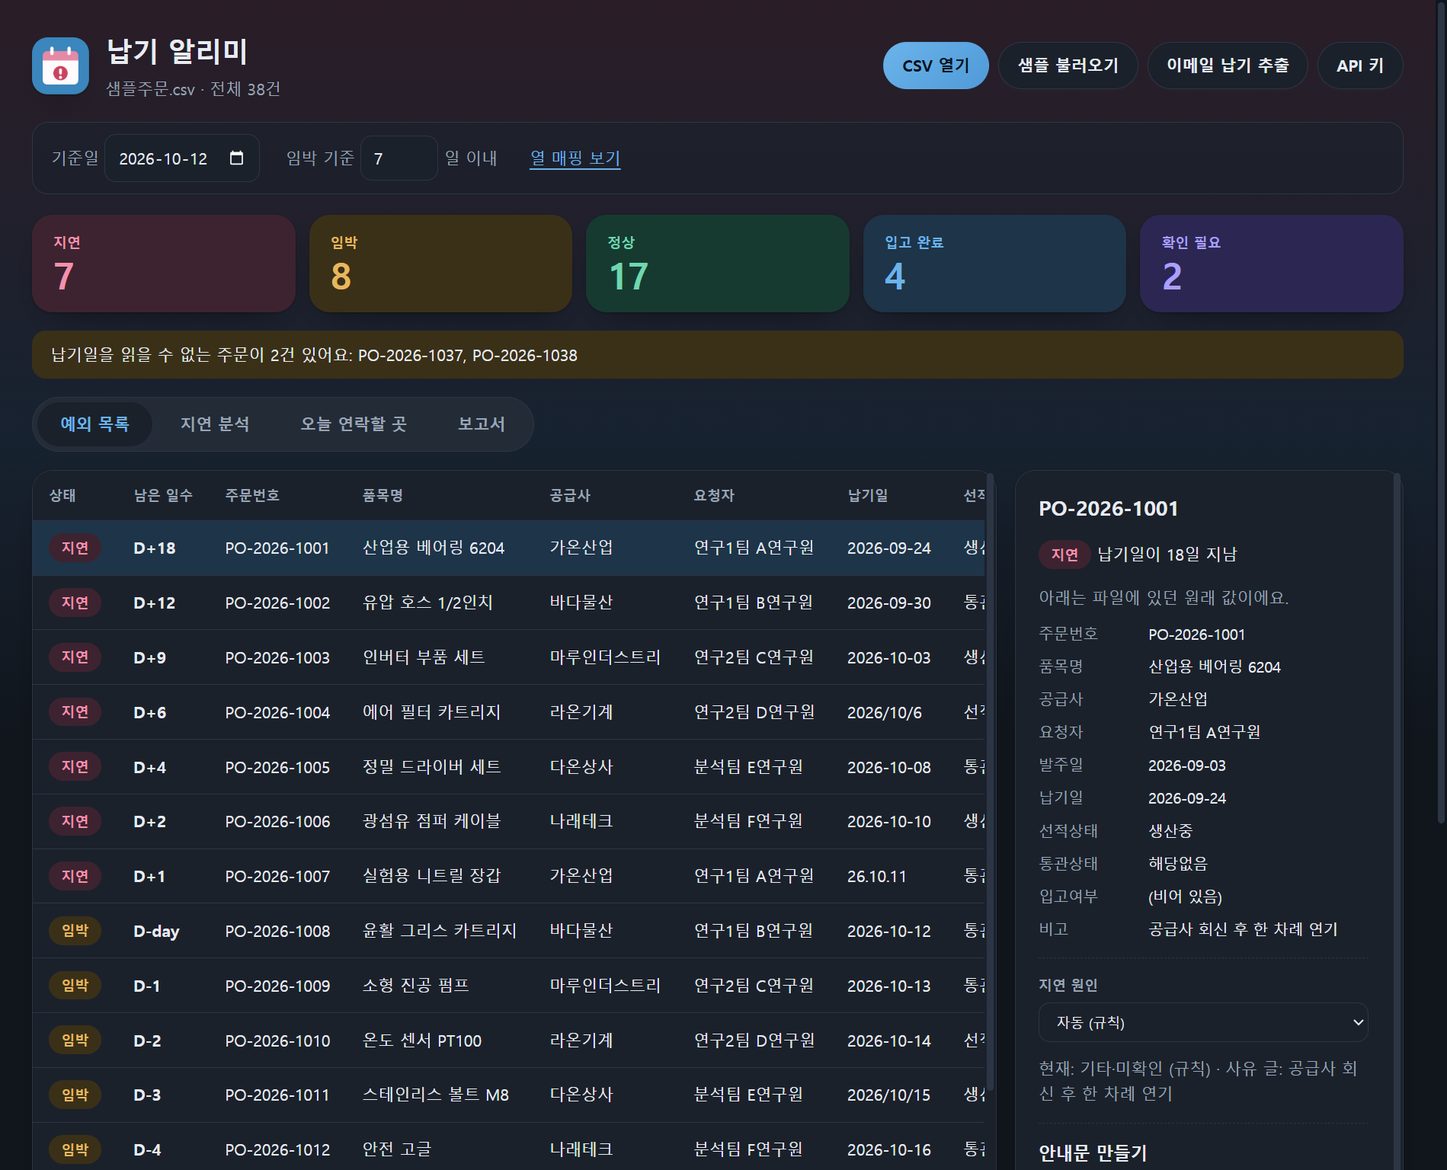
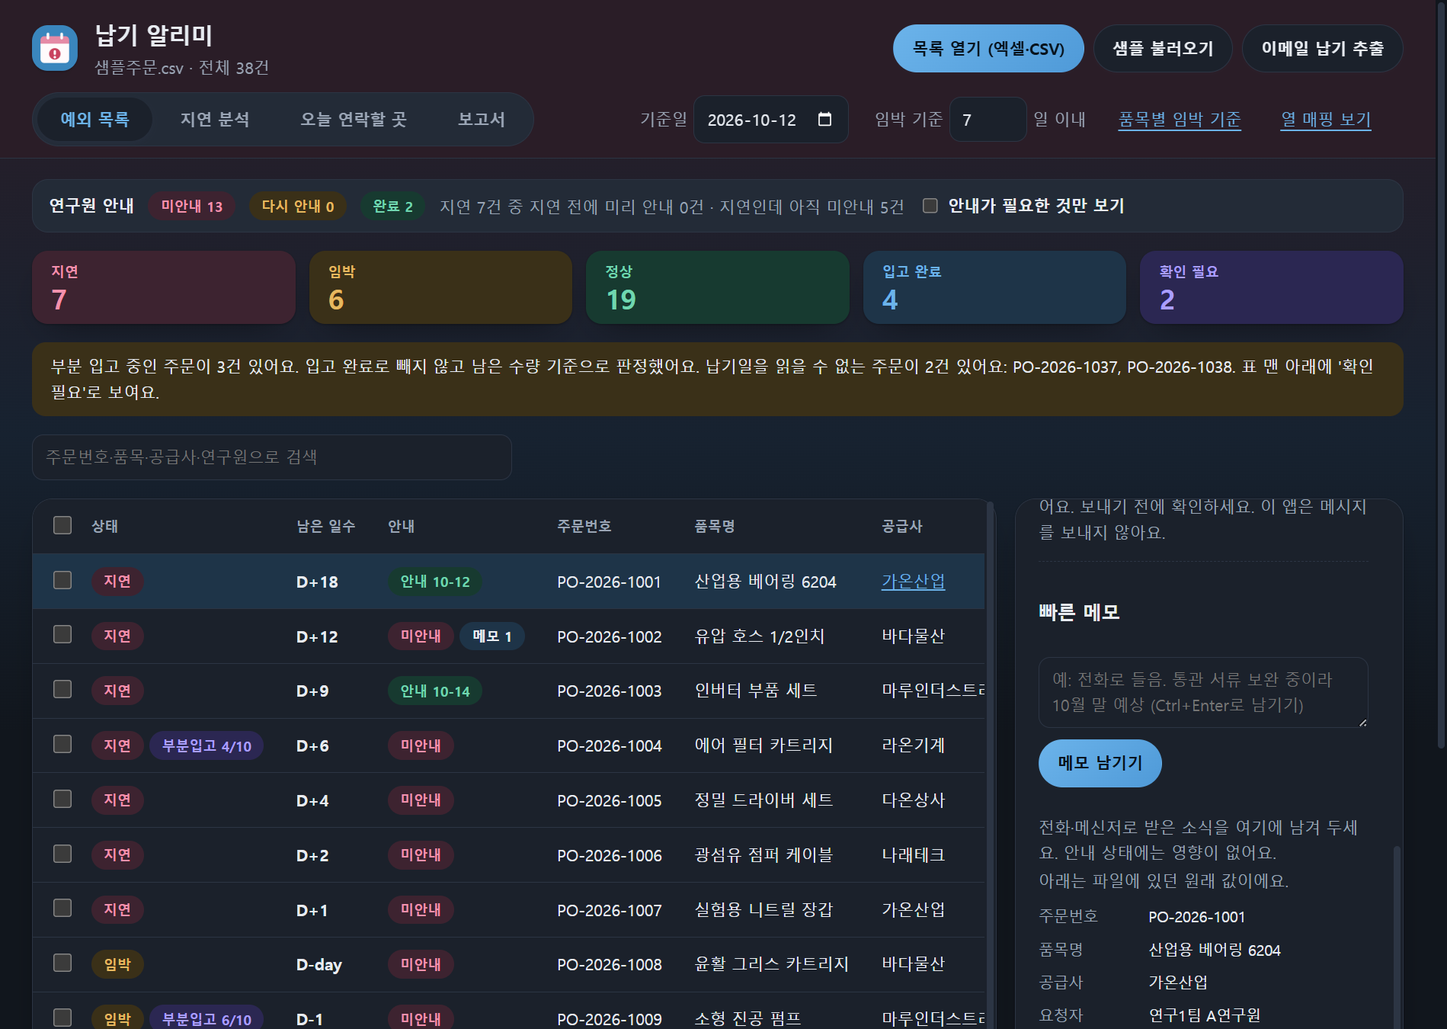
Phase 8: v0.5.0 패키징(설치 파일 106.4MB), 패키지 점검 도구, 패키지된 앱 E2E, README·캡처·CHANGELOG·문서 갱신
설치·업그레이드·삭제 시험은 이 PC에 0.4.0이 이미 설치돼 있어 하지 않았다(M-10 절차로 남김).

diff --git a/tools/capture.js b/tools/capture.js
@@ -1,11 +1,17 @@
 // 실제 앱(main.js)을 임시 저장 폴더로 띄워 화면을 캡처한다. 사용자의 state.json은 건드리지 않는다.
 // 사용 (Electron으로 실행해야 한다):
 //   APP_ROOT=<앱 폴더 절대 경로> OUT_DIR=<저장할 폴더 절대 경로> node_modules/electron/dist/electron.exe tools/capture.js
-// README용 캡처 8~14번 화면을 만든다. 샘플 기준일(2026-10-12)과 샘플 주문의 판정 결과에 맞춰 쓴 흐름이다.
-const { app, BrowserWindow } = require("electron");
+// README용 캡처(00~03, 06~17번)를 만든다. 04·05번(메일 폴더, 공급사 엑셀)은 따로 찍은 것을 그대로 쓴다.
+// 샘플 기준일(2026-10-12)과 샘플 주문의 판정 결과에 맞춰 쓴 흐름이다.
+const { app, BrowserWindow, nativeTheme } = require("electron");
 const path = require("path"), fs = require("fs"), os = require("os");
 const ROOT = process.env.APP_ROOT, OUT = process.env.OUT_DIR;
-app.setPath("userData", fs.mkdtempSync(path.join(os.tmpdir(), "nabgi-cap-")));
+const userData = fs.mkdtempSync(path.join(os.tmpdir(), "nabgi-cap-"));
+app.setPath("userData", userData);
+// 17번(엑셀 열기)에 쓸 5,001줄 가상 엑셀. 열기 대화상자는 자동화할 수 없어서 E2E 우회 경로를 쓴다 (임시 저장 폴더라서 안전하다).
+const bigXlsx = path.join(userData, "주문목록-5001줄.xlsx");
+fs.writeFileSync(bigXlsx, require(path.join(ROOT, "make-sample-orders-xlsx.js")).buildOrderFixtures()["09-5001줄.xlsx"]);
+process.env.NABGI_E2E = "1"; process.env.NABGI_USER_DATA = userData; process.env.NABGI_OPEN_FILE = bigXlsx;
 require(path.join(ROOT, "main.js"));
 
 const sleep = ms => new Promise(r => setTimeout(r, ms));
@@ -39,8 +45,12 @@ app.whenReady().then(async () => {
   await sleep(1500);
   win = BrowserWindow.getAllWindows()[0];
   win.setContentSize(1266, 900);
+  nativeTheme.themeSource = "light";
+  await shotFixed("00-첫화면", 900, 0, null);                       // 불러온 파일이 없는 첫 화면 (API 키 단추 없음)
   await js("document.getElementById('sampleBtn').click()");
   await sleep(800);
+  await pickRow("PO-2026-1001"); await sleep(300);
+  await shotFixed("01-예외목록", 900, 0, null);                      // 안내 현황 막대, 요약 카드, 표, 주문 상세
 
   // 1) 연구원 안내 기록: 1001은 10-12에, 1003은 10-14에 기록하고 10-19로 넘기면 안내 완료·다시 안내·미안내가 모두 보인다
   await pickRow("PO-2026-1001"); await sleep(200);
@@ -84,6 +94,33 @@ app.whenReady().then(async () => {
   await js(`(()=>{const a=[...document.querySelectorAll('a,button')].find(x=>x.textContent.includes('품목별 임박 기준')); a.click()})()`); await sleep(400);
   await shotFixed("13-품목별임박기준", 900, 0, null);
   await js(`(()=>{const a=[...document.querySelectorAll('a,button')].find(x=>x.textContent.includes('품목별 임박 기준')); a.click()})()`); await sleep(300);
+
+  // 8) 빠른 메모 (FR-12)
+  await pickRow("PO-2026-1002"); await sleep(300);
+  await js(`(()=>{const ta=document.querySelector('.notebox textarea'); ta.value='전화로 들음: 통관 서류 보완 중이라 10월 말 예상'; })()`);
+  await clickBtn(".notebox button", "메모 남기기"); await sleep(500);
+  await shotFixed("15-빠른메모", 1000, 0, ".notebox");
+
+  // 9) 탭 화면과 다크 모드 (색이 바뀐 뒤의 모습)
+  await resetView(); await js("window.scrollTo(0,0)");
+  await js("document.getElementById('tabAna').click()"); await sleep(500); await shotFixed("02-지연분석", 900, 0, null);
+  await js("document.getElementById('tabContact').click()"); await sleep(500); await shotFixed("03-오늘연락할곳", 900, 0, null);
+  await js("document.getElementById('tabReport').click()"); await sleep(500); await shotFixed("06-보고서", 900, 0, null);
+  await js("document.getElementById('tabList').click()"); await sleep(400);
+  nativeTheme.themeSource = "dark"; await sleep(600);
+  await pickRow("PO-2026-1001"); await sleep(300);
+  await shotFixed("07-다크모드", 900, 0, null);
+  nativeTheme.themeSource = "light"; await sleep(600);
+
+  // 10) 다시 안내 기준 설정 (FR-18): 품목별 임박 기준 패널 아래쪽
+  await js(`(()=>{const a=[...document.querySelectorAll('a,button')].find(x=>x.textContent.includes('품목별 임박 기준')); a.click()})()`); await sleep(400);
+  await shotFixed("16-다시안내기준", 900, 0, null);
+  await js(`(()=>{const a=[...document.querySelectorAll('a,button')].find(x=>x.textContent.includes('품목별 임박 기준')); a.click()})()`); await sleep(300);
+
+  // 11) 엑셀 목록 열기 (FR-07): 5,001줄이라 "일부만 읽었다"는 안내가 나온다
+  await js("document.getElementById('openBtn').click()"); await sleep(2500);
+  await shotFixed("17-엑셀열기", 900, 0, null);
+  await js("document.getElementById('sampleBtn').click()"); await sleep(800); await setDate("2026-10-12"); await sleep(300);
 
   // 7) 부분 납품
   const partNo = await js(`(()=>{const r=[...document.querySelectorAll('#tbody tr')].find(r=>r.innerText.includes('부분입고')); r.click(); return r.innerText})()`); await sleep(300);

diff --git a/tools/check-package.js b/tools/check-package.js
@@ -1,0 +1,29 @@
+// 설치 파일에 들어간 내용을 점검한다 (Phase 8). 사용: node tools/check-package.js   (먼저 npm run dist)
+// dist/win-unpacked/resources/app.asar 안의 파일 목록을 보고: 필요한 파일이 다 있고, 개발 도구·시험·문서는 없는지 확인한다.
+const fs = require("fs"), path = require("path");
+const asar = require("@electron/asar");
+
+const ROOT = path.join(__dirname, "..");
+const file = path.join(ROOT, "dist", "win-unpacked", "resources", "app.asar");
+if (!fs.existsSync(file)) { console.error("app.asar가 없어요. 먼저 npm run dist를 실행하세요."); process.exit(2); }
+const list = asar.listPackage(file).map(x => x.replace(/\\/g, "/"));
+
+// 화면과 메인이 쓰는 파일은 모두 있어야 한다: index.html이 부르는 스크립트 + main.js가 require하는 모듈 + 샘플
+const must = new Set(["/main.js", "/preload.js", "/package.json", "/renderer/index.html", "/renderer/renderer.js", "/renderer/style.css", "/build/icon.png", "/샘플주문.csv", "/샘플주문.xlsx"]);
+const html = fs.readFileSync(path.join(ROOT, "renderer", "index.html"), "utf8");
+[...html.matchAll(/<script src="\.\.\/(src\/[^"]+)"/g)].forEach(m => must.add("/" + m[1]));
+const requires = f => [...fs.readFileSync(path.join(ROOT, f), "utf8").matchAll(/require\("(\.[^"]+)"\)/g)].map(m => path.posix.join(path.posix.dirname("/" + f.replace(/\\/g, "/")), m[1]).replace(/\.js$/, "") + ".js");
+const seen = new Set();
+const walk = f => { requires(f).forEach(r => { const rel = r.slice(1); if (seen.has(r) || !fs.existsSync(path.join(ROOT, rel))) { if (!fs.existsSync(path.join(ROOT, rel))) { const idx = r.replace(/\.js$/, "") + "/index.js"; if (fs.existsSync(path.join(ROOT, idx.slice(1)))) { must.add(idx); walk(idx.slice(1)); } } return; } seen.add(r); must.add(r); walk(rel); }); };
+walk("main.js");
+["샘플메일", "샘플공급사"].forEach(d => { if (!list.some(x => x.startsWith("/" + d + "/"))) must.add("/" + d + "/(폴더)"); });
+
+const missing = [...must].filter(m => !list.includes(m) && !m.endsWith("(폴더)")).concat([...must].filter(m => m.endsWith("(폴더)")));
+const unwanted = list.filter(x => /^\/(test|tools|e2e|docs|dist|\.e2e-userdata|\.backup)(\/|$)/.test(x) || /^\/(CHANGELOG|README|기획문서|문제정의서|2차-설계)\.md$/.test(x) || /^\/make-.*\.js$/.test(x));
+const size = Math.round(fs.statSync(file).size / 1024);
+console.log("app.asar: " + list.length + "개 파일, " + size + "KB");
+console.log("필요한 파일 " + must.size + "개 중 빠진 것: " + (missing.length ? missing.join(", ") : "없음"));
+console.log("들어가면 안 되는 것(시험·도구·문서): " + (unwanted.length ? unwanted.slice(0, 8).join(", ") : "없음"));
+const exe = path.join(ROOT, "dist", "DeliveryWatch-Setup-" + require("../package.json").version + ".exe");
+if (fs.existsSync(exe)) console.log("설치 파일: " + path.basename(exe) + " " + (fs.statSync(exe).size / 1048576).toFixed(1) + "MB");
+process.exit(missing.length || unwanted.length ? 1 : 0);

diff --git a/e2e/helpers.js b/e2e/helpers.js
@@ -8,6 +8,9 @@ const fs = require("fs"), path = require("path");
 
 const ROOT = path.resolve(__dirname, "..");
 const ELECTRON = path.join(ROOT, "node_modules", "electron", "dist", "electron.exe");
+// NABGI_E2E_EXE에 설치 파일이 만든 실행 파일(dist/win-unpacked/납기 알리미.exe)을 주면, 개발용 Electron 대신 그것으로 같은 시험을 돌린다 (Phase 8: 패키징된 앱 확인).
+const PACKED_EXE = process.env.NABGI_E2E_EXE && path.isAbsolute(process.env.NABGI_E2E_EXE) ? process.env.NABGI_E2E_EXE : null;
+const appCommand = () => (PACKED_EXE ? { cmd: PACKED_EXE, args: [] } : { cmd: ELECTRON, args: [ROOT] });
 const SAMPLE_ORDERS = path.join(ROOT, "샘플주문.csv");
 const REAL_STATE = path.join(process.env.APPDATA || "", "delivery-watch", "state.json");
 
@@ -54,7 +57,7 @@ async function launchApp({ userData, openFile } = {}) {
   let port, child, target;
   for (let attempt = 0; attempt < 6; attempt++) {
     port = portSeed++;
-    child = spawn(ELECTRON, [ROOT, `--remote-debugging-port=${port}`], {
+    child = spawn(appCommand().cmd, [...appCommand().args, `--remote-debugging-port=${port}`], {
       env: { ...process.env, NABGI_E2E: "1", NABGI_USER_DATA: dir, NABGI_OPEN_FILE: openFile || "" }, stdio: "ignore",
     });
     let exited = false; child.on("exit", () => { exited = true; });
@@ -123,4 +126,4 @@ async function launchApp({ userData, openFile } = {}) {
 
 const fingerprint = f => { try { const c = require("crypto").createHash("sha256").update(fs.readFileSync(f)).digest("hex").slice(0, 16); const s = fs.statSync(f); return `${c}:${s.size}:${s.mtimeMs}`; } catch (e) { return "(없음)"; } };
 
-module.exports = { ELECTRON, ROOT, SAMPLE_ORDERS, REAL_STATE, sleep, waitFor, launchApp, fingerprint };
+module.exports = { appCommand, PACKED_EXE, ELECTRON, ROOT, SAMPLE_ORDERS, REAL_STATE, sleep, waitFor, launchApp, fingerprint };

diff --git a/e2e/scenarios/S-08-errors-and-scale.js b/e2e/scenarios/S-08-errors-and-scale.js
@@ -2,7 +2,7 @@
 // 단위 시험(test/stability.test.js, ordersFile.test.js)이 못 보는 "화면에서 어떻게 보이는가"를 확인한다.
 const fs = require("fs"), path = require("path"), os = require("os");
 const { spawn } = require("child_process");
-const { ELECTRON, ROOT, sleep } = require("../helpers");
+const { appCommand } = require("../helpers");
 const { buildCsv } = require("../../tools/make-large");
 
 const OUT = path.join(__dirname, "..", "out");
@@ -16,7 +16,7 @@ module.exports = {
     // ---------- 같은 앱을 두 개 띄움 (G-7) ----------
     const app = await ctx.launch();
     await app.click("#sampleBtn"); await app.waitFor(async () => (await app.count("#tbody tr")) > 0);
-    const second = spawn(ELECTRON, [ROOT], { env: { ...process.env, NABGI_E2E: "1", NABGI_USER_DATA: app.userData, NABGI_OPEN_FILE: "" }, stdio: "ignore" });
+    const second = spawn(appCommand().cmd, appCommand().args, { env: { ...process.env, NABGI_E2E: "1", NABGI_USER_DATA: app.userData, NABGI_OPEN_FILE: "" }, stdio: "ignore" });
     const exit = await new Promise(res => { const t = setTimeout(() => { try { second.kill(); } catch (e) { /* 이미 끝남 */ } res({ code: "시간 초과" }); }, 12000); second.on("exit", code => { clearTimeout(t); res({ code }); }); });
     ctx.check("G-7 같은 저장 폴더로 앱을 하나 더 띄우면 새 창 없이 곧바로 끝난다 (두 앱이 같은 파일을 덮어쓰지 않게)", exit.code === 0, "종료 코드 " + exit.code);
     ctx.check("G-7 먼저 떠 있던 앱은 그대로 쓸 수 있다", (await app.count("#tbody tr")) === 15);

diff --git a/docs/BACKLOG.md b/docs/BACKLOG.md
@@ -41,7 +41,7 @@
 | L-7 | 저장이 전체 덮어쓰기, 안내 기록에 id·시각 없음 | **해결** (Phase 2): 안내 기록에 UUID·createdAt, 주문 메타에 updatedAt. 저장은 아직 전체 저장이고 행 단위는 Phase 10에서 |
 | L-8 | 안내 취소가 `pop()`이라 삭제 흔적 없음 | **해결** (Phase 2): 저장소가 차이를 알아채 `deletedAt`을 남긴다 (화면 코드 변경 없이) |
 | L-9 | 테스트가 실제 `state.json`을 건드릴 위험 | **해결** (Phase 0: `NABGI_USER_DATA`, E2E 안전장치, 점검 스크립트) |
-| L-10 | README `00-첫화면.png`에 없어진 "API 키" 버튼 | Phase 8 |
+| L-10 | README `00-첫화면.png`에 없어진 "API 키" 버튼 | **해결** (Phase 8): 화면 캡처를 다시 찍음 (00~03, 06~17) |
 | L-11 | 용어가 섞여 있다 (요청자/연구원, 재안내/다시 안내) | 일부 해소: 화면은 이미 "다시 안내"로 통일("재안내"는 내부 값 `재안내필요`만). **요청자/연구원만 남음** → Phase 6 |
 | L-12 | 성능·접근성·좁은 창 미검증 | Phase 6·7 |
 
@@ -49,7 +49,7 @@
 
 | # | 내용 | 다룰 곳 |
 |---|---|---|
-| N-1 | npm 11이 `electron-winstaller` 설치 스크립트가 `allowScripts`에 없다고 경고한다. 새 PC에서 `npm ci`와 `npm run dist`가 되는지 확인해야 한다 | Phase 8 |
+| N-1 | npm 11이 `electron-winstaller` 설치 스크립트가 `allowScripts`에 없다고 경고한다. 새 PC에서 `npm ci`와 `npm run dist`가 되는지 확인해야 한다 | 이 PC에서 `npm run dist`는 성공 (0.5.0, 106.4MB). **새 PC에서 `npm ci` 후 빌드는 아직 미확인** |
 | N-2 | 이 앱의 실제 데이터 폴더 이름은 `%APPDATA%\delivery-watch` (패키지 이름 기준, 제품 이름 "납기 알리미"가 아님). 문서·설치 안내에 정확히 적어야 한다 | Phase 8 문서 |
 | N-3 | E2E에서 화면 스크립트가 다 불러와지기 전에 버튼을 누르면 아무 일도 안 일어난다. 하네스는 준비 완료를 기다려야 한다 | Phase 1 하네스 (점검 스크립트에는 이미 반영) |
 
@@ -124,6 +124,16 @@
 | N-30 | T | 하네스: 방금 강제로 끈 앱의 잠금이 잠깐 남으면 같은 폴더로 다시 띄운 앱이 곧바로 끝났다 → 실패 시 기다렸다 다시 띄우도록 고침. 앱이 갑자기 끝나면 원인을 기록하고, 시험 오류에 실패한 식을 함께 보여 준다 | 해결 |
 | N-31 | T | S-07을 쓰다가 닫힌 앱을 가리키는 도우미를 써서 실패했다 (앱 문제 아님) | 해결 |
 | N-32 | 성능 | 주문을 누르거나 기록할 때 표 전체를 다시 그린다. 5,000행에서 상세 열기 약 430ms, 10,000행에서 약 620ms. 합격선(1초) 안이라 구조는 바꾸지 않음 | `docs/PERF.md` 개선 후보 |
+
+## Phase 8에서 발견한 것 (패키징·설치)
+
+| # | 내용 | 처리 |
+|---|---|---|
+| N-33 | 설치 파일은 `src/**/*`를 담아서 새 파일(`src/store`, `ordersFile`, `columns`, `labels`)이 모두 들어간다. `test/`·`tools/`·`e2e/`·`docs/`·`make-*.js`는 들어가지 않는다 (app.asar 54개 파일, 339KB) | `tools/check-package.js`로 확인 |
+| N-34 | 패키지된 앱으로 E2E 14개 시나리오 전체 통과 (`NABGI_E2E_EXE`). 실행 파일의 환경변수 우회·원격 디버깅이 개발용과 같게 동작하므로 "개발 모드에서만 되는 기능"이 없음을 확인 | 확인 |
+| N-35 | 이 PC에는 0.4.0이 이미 설치되어 있다(시작 메뉴 바로가기, 레지스트리 항목). 임시 폴더에 설치하면 **같은 레지스트리·바로가기를 덮어써서** 이 설치본이 망가질 수 있어 설치·업그레이드·삭제 시험은 하지 않았다 (사용자와 결정) | 미수행. 깨끗한 환경 절차 `MANUAL_TESTS.md` M-10 |
+| N-36 | 업그레이드 경로의 로직(예전 형식 파일 이전, 백업, 손상·새 버전 보호)은 설치 없이도 시험되었다: E2E S-02, 단위 시험, 실제 파일 복사본 리허설(Phase 2) | 확인 |
+| N-37 | 사용자 데이터 폴더 이름은 `delivery-watch`(패키지 이름), 앱 삭제 후에도 남는다. README에 정확히 적음 | 문서화 (N-2 해결) |
 
 ## 결정 대기
 

diff --git a/CHANGELOG.md b/CHANGELOG.md
@@ -1,0 +1,35 @@
+# 변경 내용
+
+날짜는 모두 가상 프로젝트의 작업일이다. 요구사항 번호(FR-…)는 `납기-문제정의/prd.md`, 단계(Phase)는 `납기-문제정의/devpian.md`를 가리킨다.
+
+## 0.5.0 (2026-10-19)
+
+0.4.0(연구원 안내 기록까지)에 이어 보완 개발과 검증을 한 버전이다.
+
+### 새로 된 것
+- **빠른 메모** (FR-12): 전화·메신저로 들은 소식을 주문 상세에서 글 하나로 남긴다. 300자, 주문당 50건, Ctrl+Enter, 지울 때 한 번 더 확인. 표 안내 칸에 "메모 N" 표시. 안내 상태에는 영향이 없다.
+- **엑셀(.xlsx) 주문 목록** (FR-07): CSV로 다시 저장하지 않고 그대로 연다. 표 위의 제목 줄을 건너뛰고 머리글을 찾고, 시트가 여럿이면 고를 수 있고, 5,000줄·80열을 넘으면 "일부만 읽었다"고 알린다. `.xls`·손상·암호 파일은 이유를 알려 준다.
+- **'확인 필요' 주문을 표에** (G-8): 납기일을 읽을 수 없는 주문이 표 맨 아래에 나오고 안내 기록·다시 안내·한 통 안내문·보고서의 대상이 된다.
+- **다시 안내 기준 설정** (FR-18): 품목별 임박 기준 패널에서 1~30일(기본 7일). 바꾸면 바로 반영된다.
+- **복사 직후 기록 유도** (FR-19): 안내문을 복사하면 "안내함으로 기록" 버튼이 강조되고 포커스를 받는다. 자동으로 기록하지는 않는다.
+- **화면 순서** (FR-17): 안내 현황 막대를 요약 카드 위로, 주문 상세는 안내 기록 → 안내문 → 빠른 메모 → 파일 원래 값 → 지연 원인 순으로. 1280×820에서 스크롤 없이 기록 버튼이 보인다 (개선 전 1,374px).
+- **한 개만 실행**: 앱을 두 번 켜면 새 창 대신 떠 있는 창이 앞으로 온다 (같은 저장 파일을 두 앱이 덮어쓰는 것을 막음).
+- **저장 공간 경고**: 저장 파일이 상한(2MB)의 80%를 넘으면 미리 알린다.
+
+### 바뀐 것
+- **저장 형식 v1**: 기록마다 고유 id·시각이 붙고, 지운 기록은 삭제 표시만 남는다. 0.4.0까지의 저장 파일은 첫 실행 때 자동으로 옮겨지고 원본은 `state.v0.bak.json`으로 보관된다. 읽을 수 없거나 새 형식으로 바꿀 수 없으면 덮어쓰지 않고 읽기 전용으로 연다. 손상된 파일은 지우지 않고 `state.corrupt-<시각>.json`으로 보관한다.
+- **용어 통일**: "다시 안내", "확인 필요", "안내 완료". 검색 안내·필터 칩의 "요청자"는 "연구원"으로 (표 열 이름은 파일 그대로 "요청자"). CSV 보고서의 "안내완료(…)"는 "안내 완료(…)".
+- **접근성**: 마우스 없이 표(화살표·Enter·Space), 정렬 머리글, 탭(좌우 화살표)을 쓸 수 있다. 모든 단추·입력에 이름을 붙였다. 좁은 창(900×600)에서 주문을 누르면 상세로 내려가고 "↑ 목록으로"로 돌아온다. 라이트 모드 글자 대비를 4.5 이상으로 올렸다(색이 조금 진해졌다). 
+- 버튼 이름: "CSV 열기" → "목록 열기 (엑셀·CSV)".
+
+### 검증
+- 단위 테스트 141개 → 286개, 실제 앱을 띄워 클릭하는 시험(E2E) 14개 시나리오.
+- 5,000행 목록이 0.4초대로 열린다 (`docs/PERF.md`). 보안 점검은 `npm test`가 매번 확인한다 (`docs/AUDIT.md` 10절).
+
+### 알려진 한계
+- 저장 파일은 암호화하지 않는다. 설치 파일은 서명하지 않아 Windows가 "알 수 없는 게시자" 경고를 띄울 수 있다.
+- 스크린리더로 실제 읽히는지는 확인하지 못했다. `.xls`(구형 엑셀)는 열지 않는다.
+- 실제 회사 파일 형식은 확인하지 못했다 (가상 데이터로만 시험).
+
+## 0.4.0
+연구원 안내 기록(안내 여부 추적, 다시 안내 알림, 한 통 안내문, 현황 막대), 공급사 엑셀 읽기, 이메일 납기 추출, 지연 분석, 보고서 등. 상세는 `README.md`.

diff --git a/docs/MANUAL_TESTS.md b/docs/MANUAL_TESTS.md
@@ -17,7 +17,7 @@
 | M-07 | 창 크기와 좁은 화면 | Phase 6 후 | 미수행 (자동: E2E S-06) |
 | M-08 | 키보드만으로 안내까지 | Phase 6 후 | 미수행 (자동: E2E S-06). 스크린리더는 미검증 |
 | M-09 | 기존 저장 파일 이전 | Phase 2 전·후 | **리허설 통과** (2026-10-19, 실제 파일의 백업 복사본). 실제 파일의 이전은 새 버전 첫 실행 때 일어난다 |
-| M-10 | 설치·업그레이드·삭제 | Phase 8 | 미수행 |
+| M-10 | 설치·업그레이드·삭제 | Phase 8 후, **깨끗한 PC·샌드박스에서** | 미수행 (자동으로는 설치 파일 내용 점검과 패키지된 앱 E2E까지 통과) |
 
 ---
 
@@ -71,5 +71,10 @@
 - 기대: 기록이 하나도 사라지지 않는다. `state.v0.bak.json` 백업이 생긴다.
 
 ## M-10 설치·업그레이드·삭제 (Phase 8)
-- 깨끗한 환경(새 사용자 계정 또는 샌드박스)에서 설치 파일을 실행 → 바로가기 확인 → 샘플로 기록 → 종료·재실행 → 복원 확인 → v0.4.0 상태에서 업그레이드 → 삭제 후 데이터 폴더 남는지 확인.
-- 기대: `devpian.md` Phase 8의 종료 조건과 같다.
+**이 PC에서는 하지 않았다**: 이 PC에는 이미 0.4.0이 설치되어 있어서, 같은 설치 정보를 덮어쓰지 않으려고 설치 시험을 건너뛰었다(2026-10-19, 사용자 결정). 깨끗한 환경(Windows 샌드박스, 새 사용자 계정, 가상 머신)에서 아래를 한다.
+자동으로 한 것: `node tools/check-package.js`(설치 파일 안에 필요한 파일이 다 있고 시험·도구·문서는 없음), 패키지된 앱(`dist/win-unpacked`)으로 E2E 전체 통과(`NABGI_E2E_EXE=<exe 경로> npm run test:e2e`).
+1. **설치**: `dist/DeliveryWatch-Setup-0.5.0.exe`를 실행한다. SmartScreen 경고("알 수 없는 게시자")가 뜨면 "추가 정보 → 실행". 설치 폴더 선택 화면이 나오고, 바탕화면·시작 메뉴 바로가기가 생기는지 본다.
+2. **실행·기록**: 앱을 열고 샘플 불러오기 → 첫 주문 안내 기록 → 앱 종료 → 다시 실행 → 샘플을 열었을 때 기록이 복원되는지 본다. 앱을 두 번 켜 보면 새 창이 안 생기고 떠 있는 창이 앞으로 온다.
+3. **업그레이드** (0.4.0 먼저 설치하고 안내 기록을 몇 개 남긴 뒤): 0.5.0 설치 파일을 같은 PC에 설치(덮어쓰기) → 실행. 기록이 그대로 있고, `%APPDATA%\delivery-watch\`에 `state.v0.bak.json`(예전 형식 원본)이 생겼는지, `state.json`이 `"schemaVersion":1`인지 본다. 화면 위쪽에 "저장 파일을 새 형식으로 바꿨어요" 알림이 한 번 보인다.
+4. **삭제**: 설정 → 앱 → 납기 알리미 제거. 바로가기·설치 폴더는 사라지고 `%APPDATA%\delivery-watch\state.json`은 **남는다**(의도). 다시 설치하면 기록이 이어진다.
+- 기대: 설치 → 실행 → 업그레이드 → 삭제가 깨끗한 환경에서 모두 된다. (`devpian.md` Phase 8 종료 조건)
